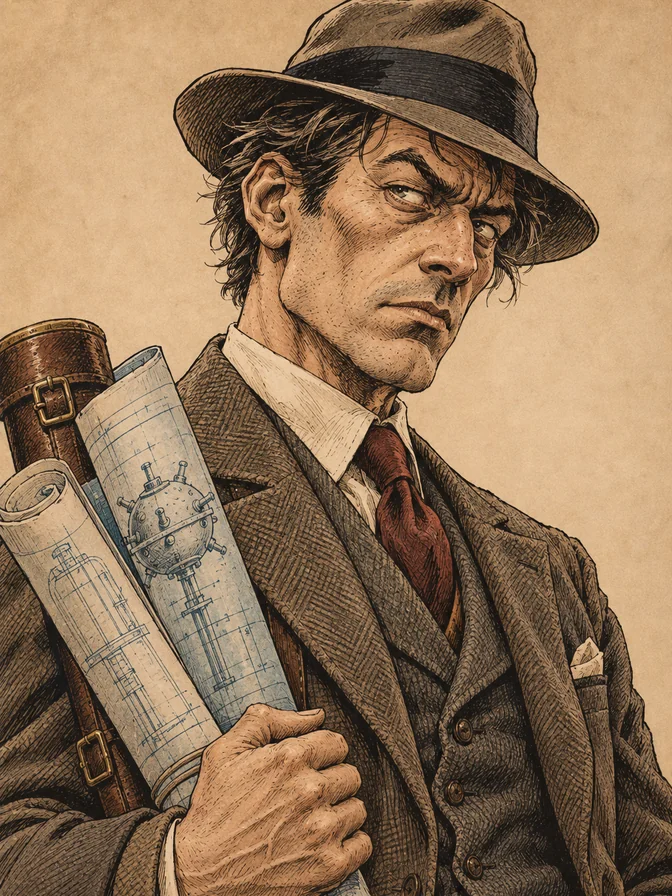
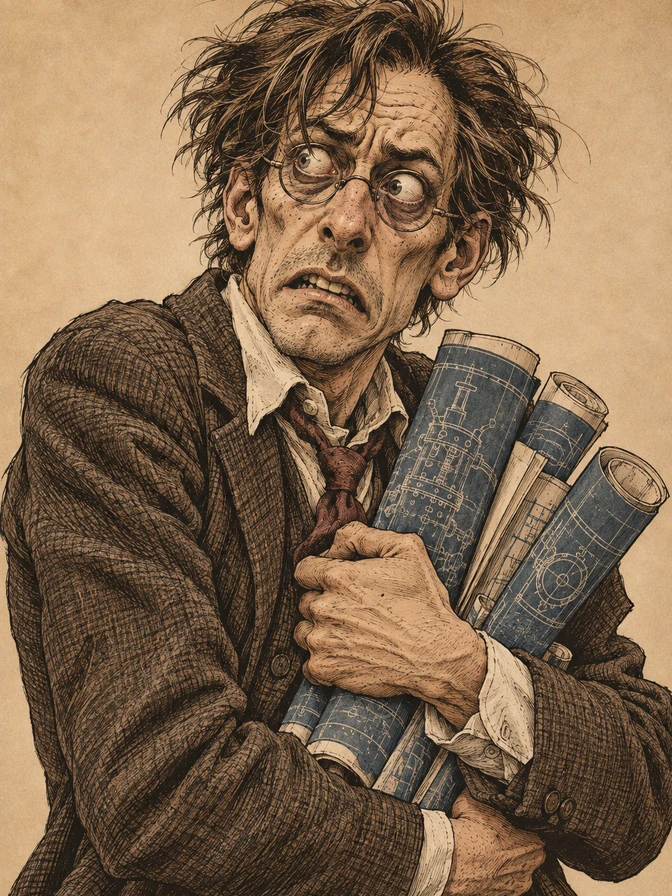
Update Tom Leven portrait to authentic nervous-wreck inventor

diff --git a/index.html b/index.html
@@ -10,6 +10,7 @@
 
 
 
+
   :root {
     --bg-dark: #0b0e14;
     --card-bg: #131722;
@@ -703,6 +704,369 @@
   .badge-stats { background: rgba(255, 255, 255, 0.06); color: #cbd5e1; border: 1px solid rgba(255, 255, 255, 0.15); }
   .meta-val-contra { color: #f59e0b !important; font-weight: 600; line-height: 1.45; }
   .rejto-card:hover { border-color: #f59e0b; box-shadow: 0 12px 30px rgba(245, 158, 11, 0.2); }
+
+  /* Lightbox Navigation Buttons */
+  .modal-nav-btn {
+    position: absolute;
+    top: 50%;
+    transform: translateY(-50%);
+    width: 48px;
+    height: 48px;
+    border-radius: 50%;
+    background: rgba(19, 23, 34, 0.88);
+    border: 1px solid rgba(255, 255, 255, 0.2);
+    color: #fff;
+    font-size: 1.6rem;
+    display: flex;
+    align-items: center;
+    justify-content: center;
+    cursor: pointer;
+    box-shadow: 0 4px 20px rgba(0, 0, 0, 0.6);
+    transition: all 0.2s ease;
+    z-index: 100000;
+    user-select: none;
+  }
+  .modal-nav-btn:hover {
+    background: rgba(56, 189, 248, 0.35);
+    border-color: var(--accent);
+    color: #fff;
+    transform: translateY(-50%) scale(1.08);
+  }
+  .modal-nav-prev { left: -68px; }
+  .modal-nav-next { right: -68px; }
+  .modal-counter {
+    margin-top: 0.4rem;
+    font-size: 0.85rem;
+    color: var(--text-secondary);
+    font-weight: 600;
+    letter-spacing: 0.05em;
+  }
+  @media (max-width: 860px) {
+    .modal-nav-prev { left: 8px; }
+    .modal-nav-next { right: 8px; }
+  }
+
+
+
+  /* Studio Navigation Tabs */
+  .studio-tabs {
+    display: flex;
+    justify-content: center;
+    gap: 1.25rem;
+    margin: 1.5rem 0 2.5rem 0;
+    flex-wrap: wrap;
+  }
+  .studio-tab-btn {
+    display: flex;
+    align-items: center;
+    gap: 0.85rem;
+    background: var(--card-bg);
+    border: 1px solid var(--card-border);
+    color: var(--text-secondary);
+    padding: 0.95rem 1.8rem;
+    border-radius: 14px;
+    font-size: 1.05rem;
+    font-weight: 600;
+    cursor: pointer;
+    transition: all 0.25s ease;
+    box-shadow: 0 4px 15px rgba(0,0,0,0.25);
+  }
+  .studio-tab-btn:hover {
+    border-color: var(--accent);
+    color: #fff;
+    transform: translateY(-2px);
+  }
+  .studio-tab-btn.active {
+    background: linear-gradient(135deg, rgba(56, 189, 248, 0.22) 0%, rgba(19, 23, 34, 0.95) 100%);
+    border-color: var(--accent);
+    color: #fff;
+    box-shadow: 0 0 25px rgba(56, 189, 248, 0.3);
+  }
+  .studio-tab-btn.rejto-tab.active {
+    background: linear-gradient(135deg, rgba(245, 158, 11, 0.22) 0%, rgba(19, 23, 34, 0.95) 100%);
+    border-color: var(--accent-gold);
+    color: #fff;
+    box-shadow: 0 0 25px rgba(245, 158, 11, 0.3);
+  }
+  .tab-icon { font-size: 1.35rem; }
+  .tab-badge {
+    background: rgba(255, 255, 255, 0.08);
+    padding: 0.25rem 0.65rem;
+    border-radius: 9999px;
+    font-size: 0.8rem;
+    color: var(--text-secondary);
+    font-weight: 700;
+  }
+  .studio-tab-btn.active .tab-badge {
+    background: rgba(56, 189, 248, 0.25);
+    color: #38bdf8;
+  }
+  .studio-tab-btn.rejto-tab.active .tab-badge {
+    background: rgba(245, 158, 11, 0.25);
+    color: #f59e0b;
+  }
+
+  .tab-view { display: none; }
+  .tab-view.active { display: block; animation: fadeIn 0.3s ease; }
+  @keyframes fadeIn { from { opacity: 0; transform: translateY(6px); } to { opacity: 1; transform: translateY(0); } }
+
+  /* Rejtő specific badges and accents */
+  .badge-tier1 { background: rgba(245, 158, 11, 0.2); color: #fbbf24; border: 1px solid rgba(245, 158, 11, 0.4); }
+  .badge-tier2 { background: rgba(148, 163, 184, 0.15); color: #94a3b8; border: 1px solid rgba(148, 163, 184, 0.3); }
+  .badge-book { background: rgba(56, 189, 248, 0.12); color: #7dd3fc; border: 1px solid rgba(56, 189, 248, 0.3); }
+  .badge-meta { background: rgba(148, 163, 184, 0.12); color: #cbd5e1; border: 1px solid rgba(148, 163, 184, 0.25); font-size: 0.8rem; padding: 0.3rem 0.65rem; border-radius: 6px; font-weight: 600; }
+  .badge-audio { background: rgba(16, 185, 129, 0.15); color: #34d399; border: 1px solid rgba(16, 185, 129, 0.35); }
+  .badge-master { background: rgba(168, 85, 247, 0.15); color: #c084fc; border: 1px solid rgba(168, 85, 247, 0.35); }
+
+  /* Rejtő Grid & Modern Showcase Card Design */
+  #rejtoGrid {
+    display: grid;
+    grid-template-columns: repeat(auto-fill, minmax(440px, 1fr));
+    gap: 1.85rem;
+  }
+
+  .rejto-card {
+    background: linear-gradient(180deg, #161b26 0%, #0d111a 100%);
+    border: 1px solid rgba(245, 158, 11, 0.22);
+    border-radius: 18px;
+    box-shadow: 0 8px 30px rgba(0, 0, 0, 0.35);
+    transition: transform 0.25s ease, border-color 0.25s ease, box-shadow 0.25s ease;
+    display: flex;
+    flex-direction: column;
+    overflow: hidden;
+  }
+  .rejto-card:hover {
+    border-color: rgba(245, 158, 11, 0.65);
+    box-shadow: 0 14px 40px rgba(0, 0, 0, 0.5), 0 0 25px rgba(245, 158, 11, 0.18);
+    transform: translateY(-3px);
+  }
+
+  .rejto-card-header {
+    display: flex;
+    gap: 1.35rem;
+    padding: 1.35rem 1.35rem 0.8rem 1.35rem;
+    align-items: flex-start;
+  }
+  .rejto-photo-frame {
+    width: 175px;
+    height: 235px;
+    border-radius: 12px;
+    flex-shrink: 0;
+    overflow: hidden;
+    position: relative;
+    border: 2px solid rgba(245, 158, 11, 0.4);
+    box-shadow: 0 6px 20px rgba(0, 0, 0, 0.55), 0 0 12px rgba(245, 158, 11, 0.1);
+    cursor: zoom-in;
+    background: #0b0e14;
+    transition: transform 0.25s ease, border-color 0.25s ease, box-shadow 0.25s ease;
+  }
+  .rejto-photo-frame:hover {
+    transform: scale(1.025);
+    border-color: #f59e0b;
+    box-shadow: 0 8px 25px rgba(245, 158, 11, 0.35);
+  }
+  .rejto-photo-frame img {
+    width: 100%;
+    height: 100%;
+    object-fit: cover;
+    display: block;
+  }
+  .rejto-header-details {
+    flex: 1;
+    display: flex;
+    flex-direction: column;
+    gap: 0.75rem;
+  }
+  .rejto-char-name {
+    font-size: 1.45rem;
+    font-weight: 800;
+    color: #f8fafc;
+    letter-spacing: -0.01em;
+    line-height: 1.25;
+    margin: 0;
+    text-shadow: 0 2px 8px rgba(0, 0, 0, 0.5);
+  }
+  .rejto-badge-row {
+    display: flex;
+    flex-wrap: wrap;
+    gap: 0.5rem;
+  }
+
+  /* Story Bio Block (Ki ő valójában - no header) */
+  .rejto-bio-block {
+    margin: 0.4rem 1.35rem 1rem 1.35rem;
+    padding: 1rem 1.15rem;
+    background: linear-gradient(135deg, rgba(245, 158, 11, 0.08) 0%, rgba(30, 41, 59, 0.35) 100%);
+    border-left: 3px solid #f59e0b;
+    border-radius: 0 10px 10px 0;
+  }
+  .rejto-bio-text {
+    margin: 0;
+    font-size: 0.95rem;
+    line-height: 1.68;
+    color: #e2e8f0;
+    font-weight: 400;
+  }
+
+  /* Audio player panel */
+  .rejto-audio-block {
+    margin: 0 1.35rem 1rem 1.35rem;
+    padding: 0.75rem 1rem;
+    background: rgba(15, 23, 42, 0.6);
+    border: 1px solid rgba(56, 189, 248, 0.25);
+    border-radius: 12px;
+  }
+  .rejto-audio-label {
+    font-size: 0.8rem;
+    font-weight: 700;
+    color: #38bdf8;
+    text-transform: uppercase;
+    letter-spacing: 0.06em;
+    margin-bottom: 0.45rem;
+  }
+  .rejto-audio-block audio {
+    width: 100%;
+    height: 38px;
+  }
+
+  /* Collapsible Accordions */
+  .rejto-accordion {
+    margin: 0 1.35rem 0.65rem 1.35rem;
+    border: 1px solid rgba(255, 255, 255, 0.09);
+    border-radius: 10px;
+    background: rgba(15, 23, 42, 0.45);
+    overflow: hidden;
+    transition: all 0.2s ease;
+  }
+  .rejto-accordion:hover {
+    border-color: rgba(245, 158, 11, 0.3);
+  }
+  .rejto-accordion[open] {
+    border-color: rgba(245, 158, 11, 0.45);
+    background: rgba(15, 23, 42, 0.75);
+  }
+  .rejto-acc-summary {
+    display: flex;
+    justify-content: space-between;
+    align-items: center;
+    padding: 0.75rem 1rem;
+    cursor: pointer;
+    font-size: 0.9rem;
+    font-weight: 700;
+    color: #cbd5e1;
+    user-select: none;
+    list-style: none;
+    transition: color 0.2s ease;
+  }
+  .rejto-acc-summary::-webkit-details-marker {
+    display: none;
+  }
+  .rejto-accordion[open] .rejto-acc-summary {
+    color: #fbbf24;
+    border-bottom: 1px solid rgba(245, 158, 11, 0.2);
+  }
+  .rejto-acc-chevron {
+    font-size: 0.85rem;
+    transition: transform 0.25s ease;
+    color: #94a3b8;
+  }
+  .rejto-accordion[open] .rejto-acc-chevron {
+    transform: rotate(180deg);
+    color: #fbbf24;
+  }
+  .rejto-acc-body {
+    padding: 0.9rem 1.1rem;
+    font-size: 0.9rem;
+    line-height: 1.55;
+    color: #cbd5e1;
+  }
+  .rejto-acc-body .meta-row {
+    margin-bottom: 0.65rem;
+  }
+  .rejto-acc-body .meta-row:last-child {
+    margin-bottom: 0;
+  }
+  .rejto-acc-body .meta-label {
+    font-weight: 700;
+    color: #94a3b8;
+    font-size: 0.8rem;
+    text-transform: uppercase;
+    letter-spacing: 0.04em;
+    margin-bottom: 0.15rem;
+  }
+  .rejto-acc-body .meta-val {
+    color: #e2e8f0;
+  }
+  .rejto-acc-body .meta-val-highlight {
+    color: #f59e0b;
+    font-weight: 600;
+  }
+  .rejto-acc-body .meta-val-contra {
+    color: #38bdf8;
+    font-style: italic;
+  }
+  .rejto-actions-list {
+    margin: 0;
+    padding-left: 1.25rem;
+  }
+  .rejto-actions-list li {
+    margin-bottom: 0.55rem;
+    line-height: 1.5;
+    color: #e2e8f0;
+  }
+  .rejto-actions-list li::marker {
+    color: #f59e0b;
+  }
+  .rejto-actions-list li:last-child {
+    margin-bottom: 0;
+  }
+
+  /* Technical Tags Footer */
+  .rejto-tech-footer {
+    margin-top: auto;
+    padding: 0.85rem 1.35rem;
+    border-top: 1px solid rgba(255, 255, 255, 0.07);
+    background: rgba(10, 14, 22, 0.5);
+  }
+  .tech-tags-list {
+    display: flex;
+    flex-wrap: wrap;
+    gap: 0.45rem;
+    align-items: center;
+  }
+  .tech-tag {
+    font-size: 0.76rem;
+    font-weight: 600;
+    padding: 0.22rem 0.55rem;
+    border-radius: 5px;
+    background: rgba(255, 255, 255, 0.05);
+    color: #94a3b8;
+    border: 1px solid rgba(255, 255, 255, 0.1);
+  }
+  .tech-tag.tech-master {
+    background: rgba(168, 85, 247, 0.15);
+    color: #c084fc;
+    border-color: rgba(168, 85, 247, 0.35);
+  }
+  .tech-tag.tech-audio {
+    background: rgba(16, 185, 129, 0.15);
+    color: #34d399;
+    border-color: rgba(16, 185, 129, 0.35);
+  }
+
+  @media (max-width: 540px) {
+    #rejtoGrid {
+      grid-template-columns: 1fr;
+    }
+    .rejto-card-header {
+      flex-direction: column;
+      align-items: center;
+      text-align: center;
+    }
+    .rejto-badge-row {
+      justify-content: center;
+    }
+  }
 
   /* Lightbox Navigation Buttons */
   .modal-nav-btn {
